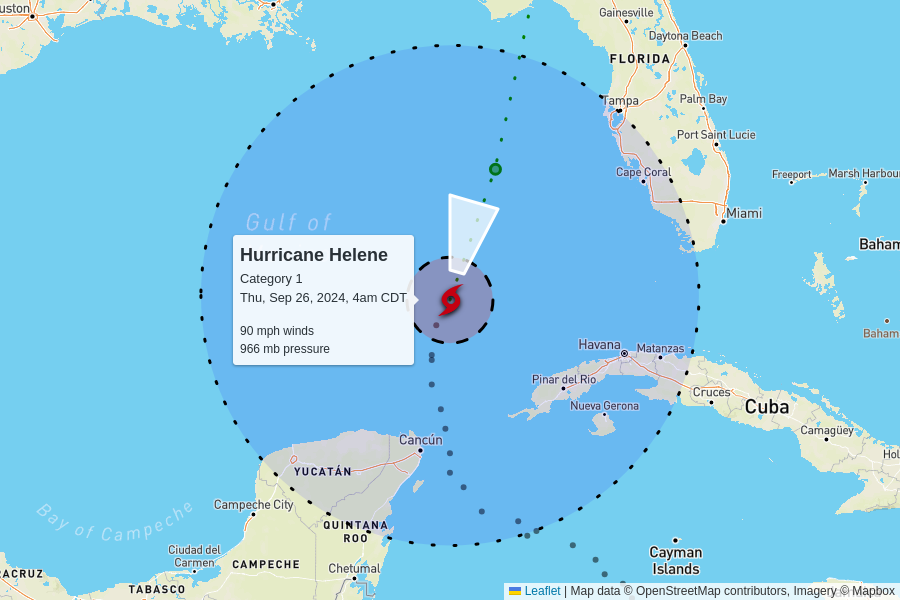
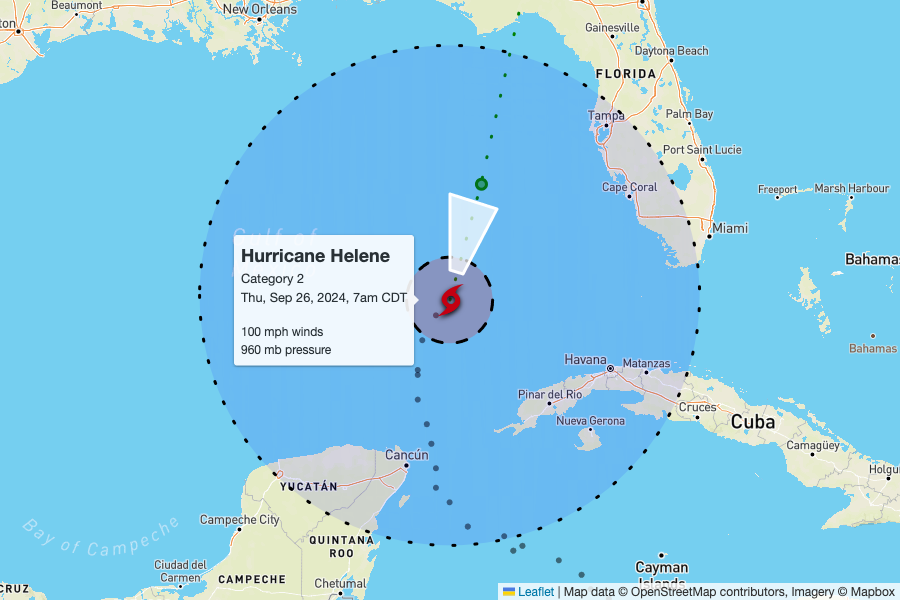
fix active map; do an update

diff --git a/src/map.html b/src/map.html
@@ -74,25 +74,29 @@
             }).addTo(map);
           });
 
-          const forecastTrack = [[lat, lon]];
+          // The overview image of all active storms won't have forecast tracks,
+          // so in that case, just skip this whole part.
+          if (forecast) {
+            const forecastTrack = [[lat, lon]];
 
-          forecast.forEach(({ lat, lon }) => {
-            L.circle([lat, lon], {
+            forecast.forEach(({ lat, lon }) => {
+              L.circle([lat, lon], {
+                color: "green",
+                fillColor: "green",
+                fillOpacity: 0.5,
+                opacity: 1,
+                radius: 10_000,
+              }).addTo(map);
+
+              forecastTrack.push([lat, lon]);
+            });
+
+            L.polyline(forecastTrack, {
               color: "green",
-              fillColor: "green",
-              fillOpacity: 0.5,
-              opacity: 1,
-              radius: 10_000,
+              dashArray: "1 20",
+              dashOffset: 0,
             }).addTo(map);
-
-            forecastTrack.push([lat, lon]);
-          });
-
-          L.polyline(forecastTrack, {
-            color: "green",
-            dashArray: "1 20",
-            dashOffset: 0,
-          }).addTo(map);
+          }
 
           if (windExtent.hurricane) {
             const meters = {

diff --git a/docs/index.html b/docs/index.html
@@ -101,10 +101,10 @@
 
     <table>
       <tr>
-        <td colspan="6" class="storm category-1" >
+        <td colspan="6" class="storm category-2" >
           <h2>
-            Hurricane Helene - Category 1
-            <p class="updated">last updated <span data-time>2024-09-26T09:00:00.000Z</span></p>
+            Hurricane Helene - Category 2
+            <p class="updated">last updated <span data-time>2024-09-26T12:00:00.000Z</span></p>
           </h2>
         </td>
       </tr>
@@ -119,8 +119,8 @@
       </tr>
       <tr>
         <td class="spacer"></td>
-        <td>90 mph<br>+5 mph since last update</td>
-        <td>966 mb<br>-5 mb since last update</td>
+        <td>100 mph<br>+10 mph since last update</td>
+        <td>960 mb<br>-6 mb since last update</td>
         <td>
           12 mph to the north-northeast
           <br/>

diff --git a/src/mapsForCurrentStorms.js b/src/mapsForCurrentStorms.js
@@ -162,6 +162,9 @@ const makeMaps = async (force = false) => {
 
     console.log(`Updating map for storm ${id}`);
 
+    page.on("console", (msg) => {
+      console.log(msg);
+    });
     await page.evaluate((metadata) => {
       window.draw(metadata);
     }, metadata);
